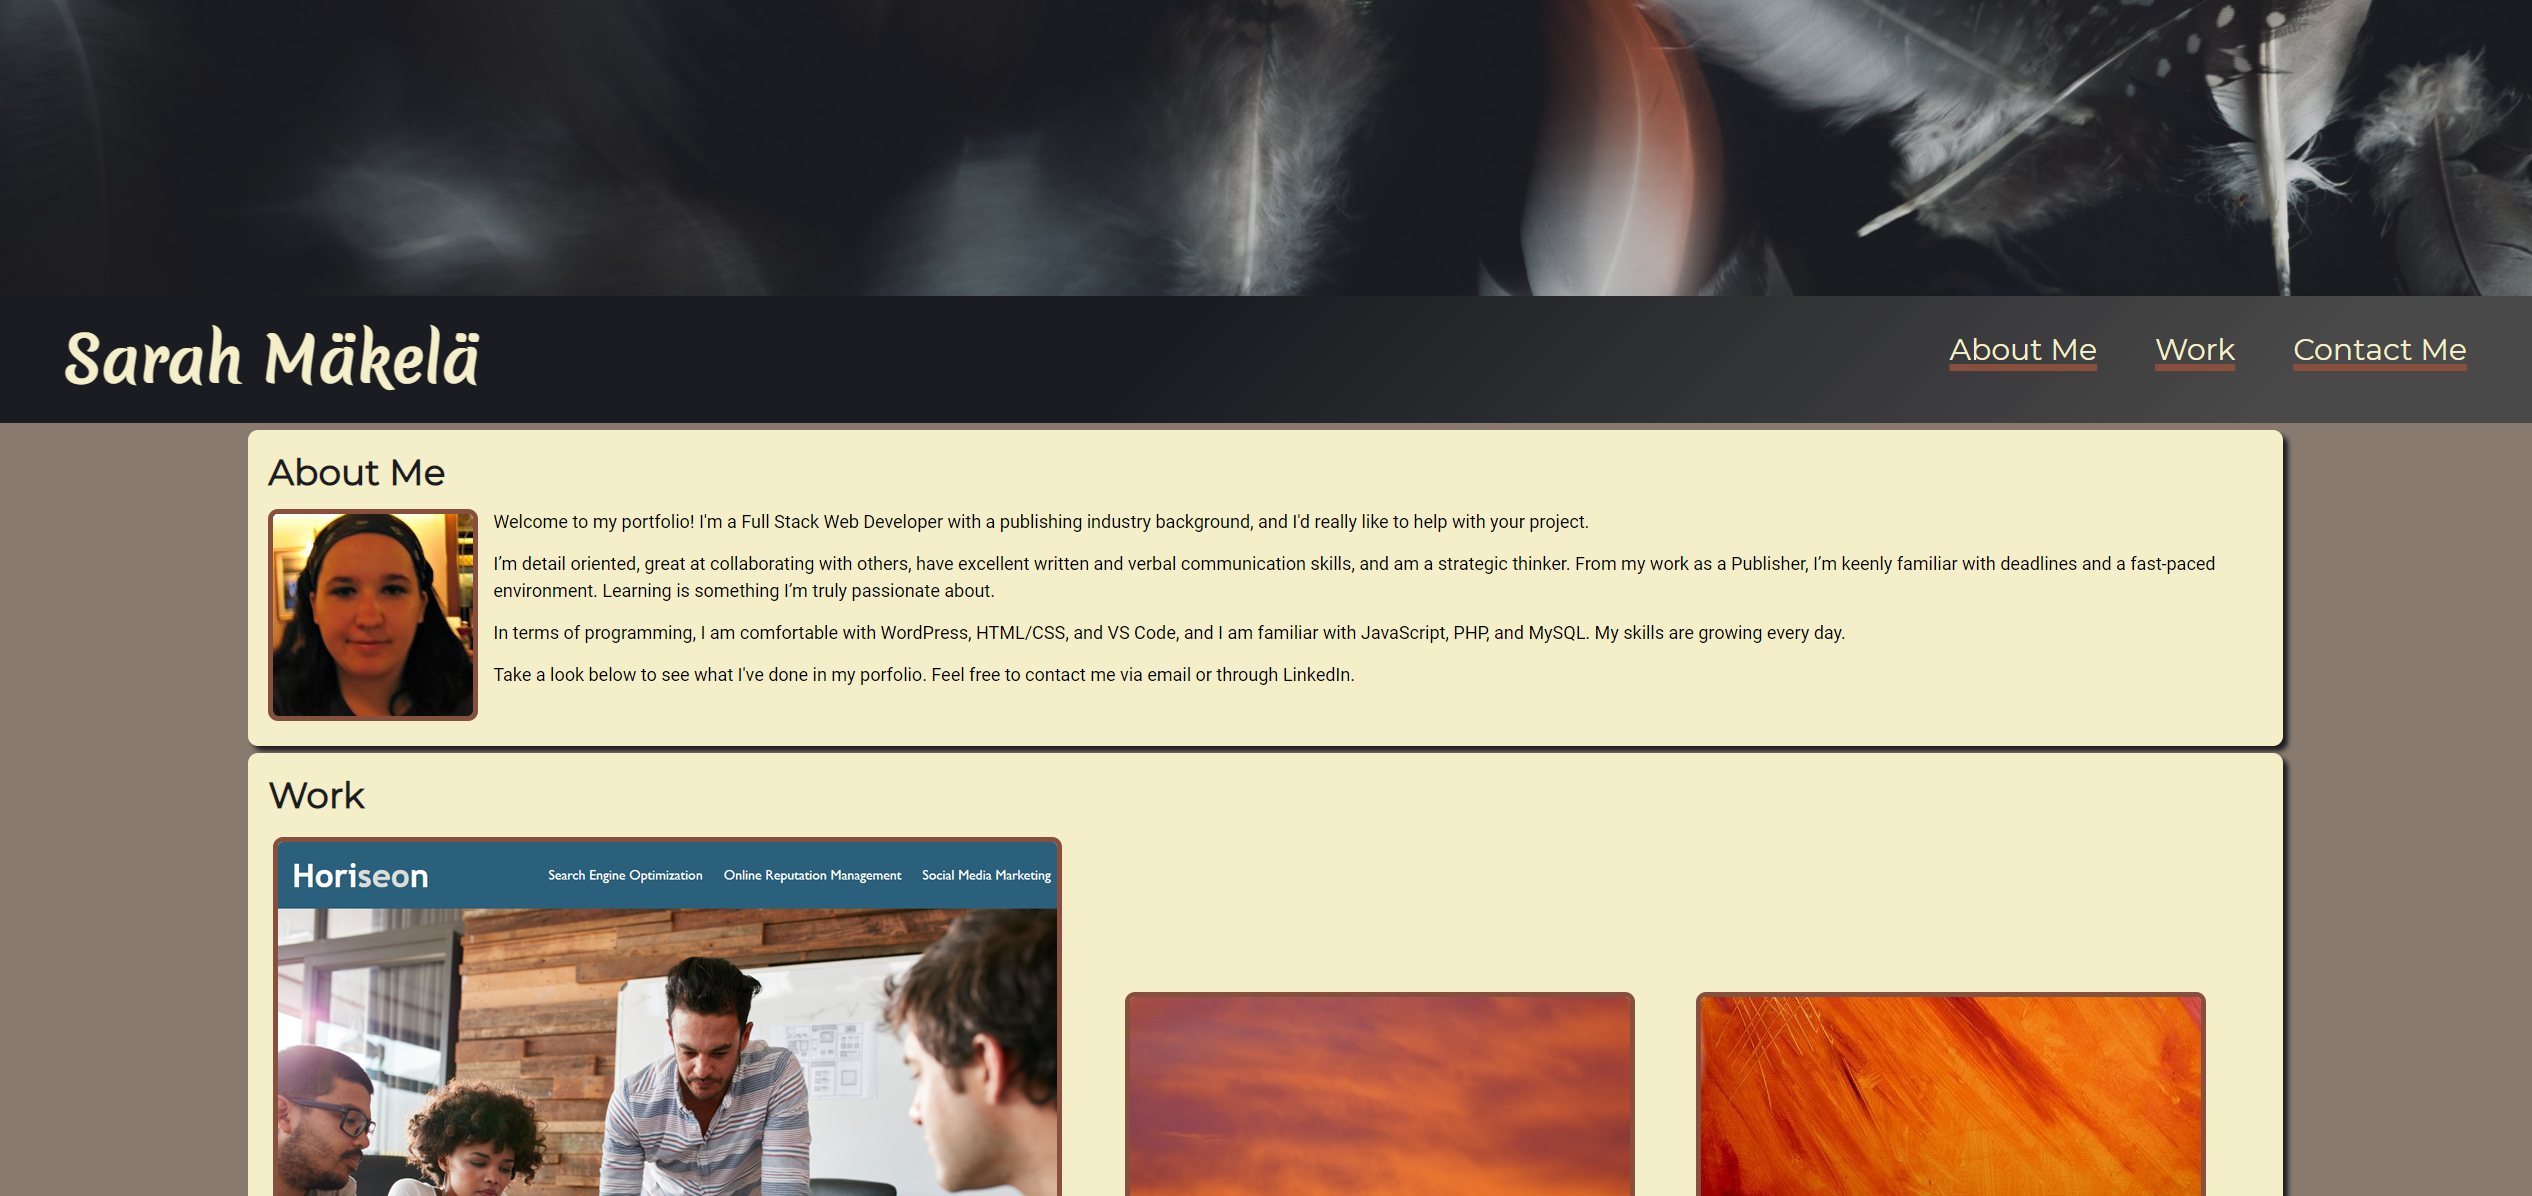
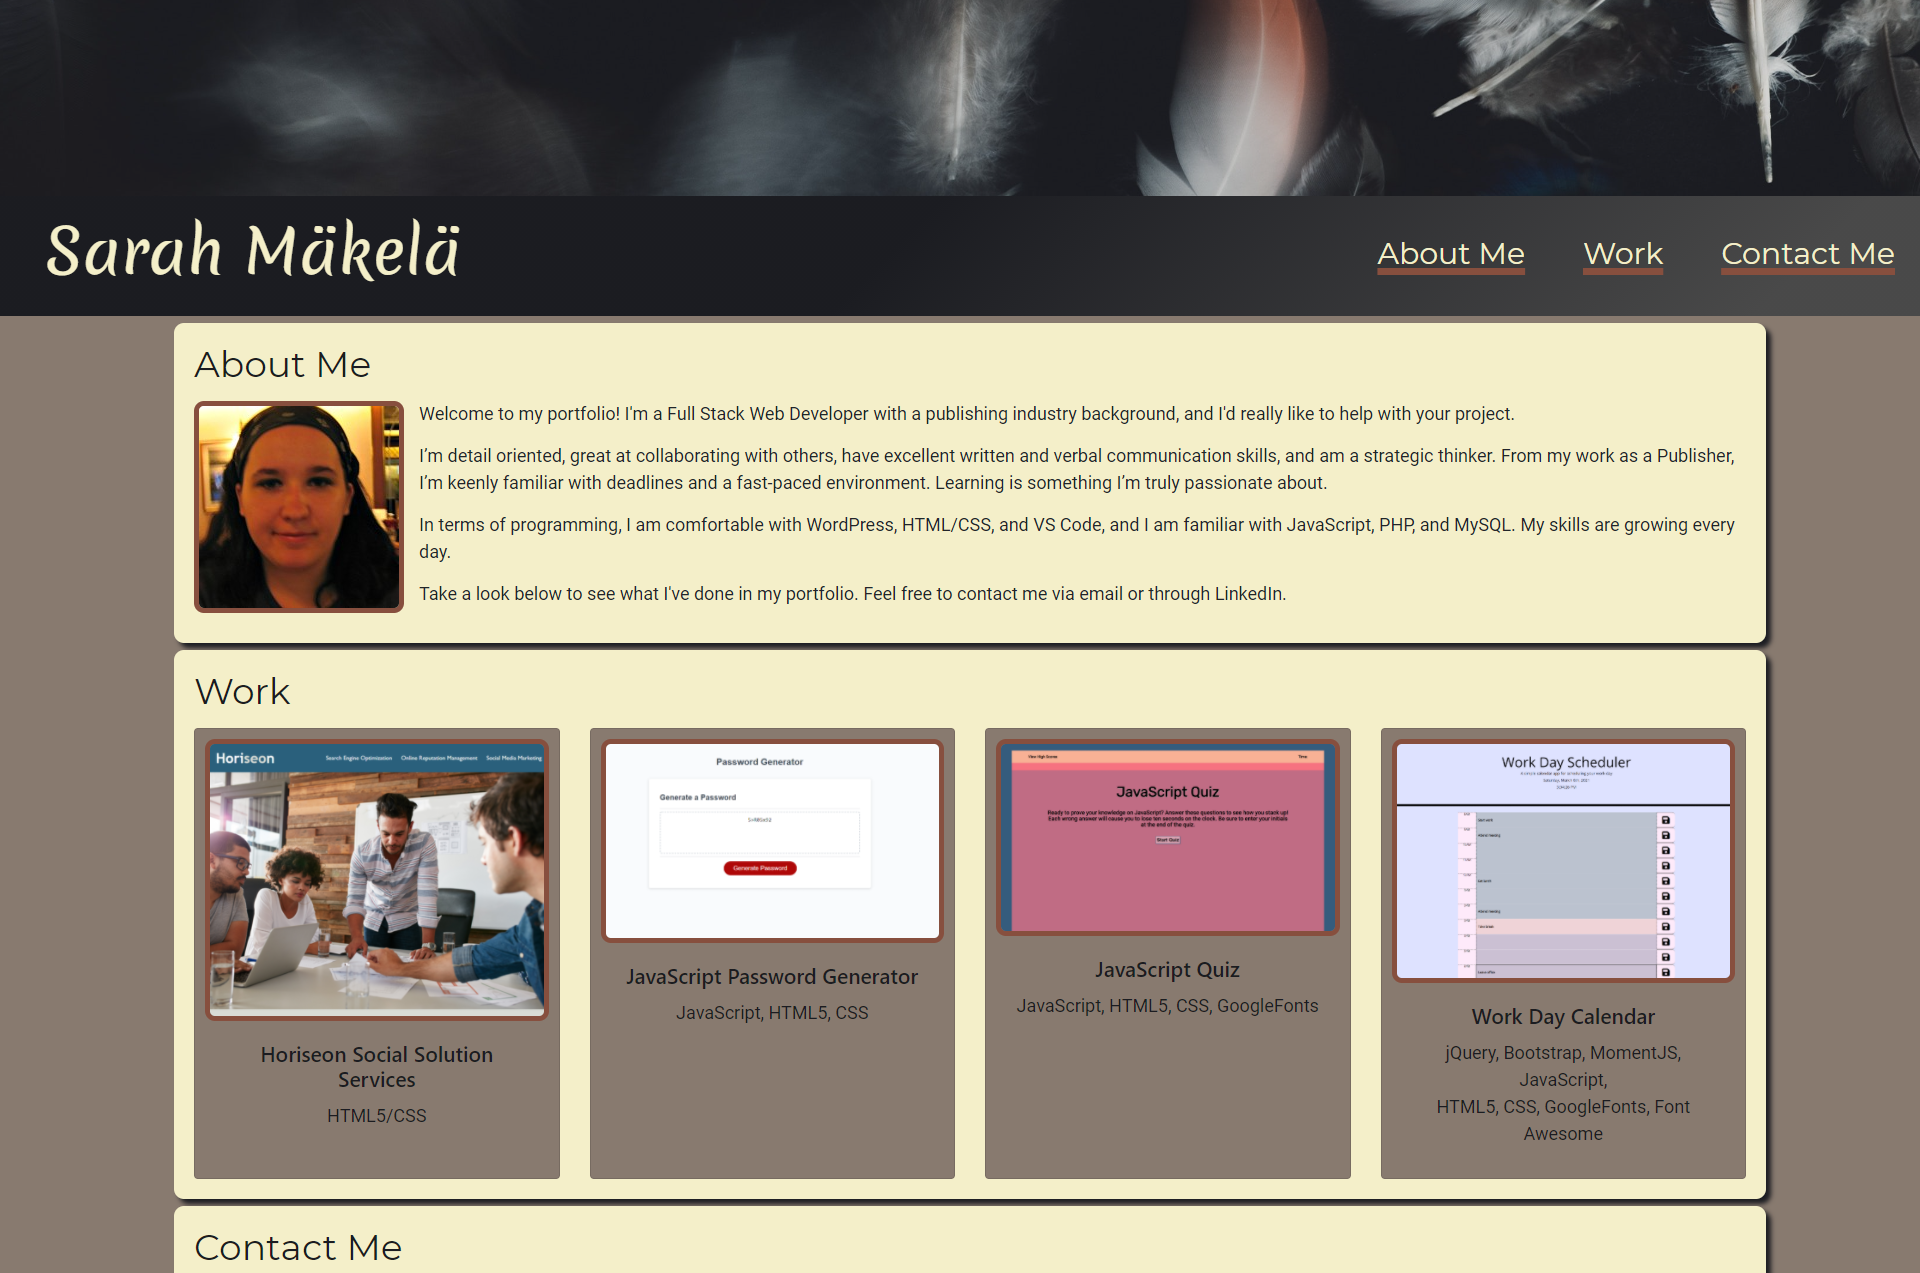
Added Work Day Calendar project and created cards in Bootstrap to hold projects

diff --git a/index.html b/index.html
@@ -3,11 +3,13 @@
 
 <head>
     <meta charset="UTF-8" />
+    <link rel="stylesheet" href="https://stackpath.bootstrapcdn.com/bootstrap/4.1.3/css/bootstrap.min.css"
+        integrity="sha384-MCw98/SFnGE8fJT3GXwEOngsV7Zt27NXFoaoApmYm81iuXoPkFOJwJ8ERdknLPMO" crossorigin="anonymous">
     <link rel="stylesheet" href="./assets/css/style.css">
     <link href="https://fonts.googleapis.com/css2?family=Merienda" rel="stylesheet">
     <link href="https://fonts.googleapis.com/css2?family=Montserrat" rel="stylesheet">
     <link href="https://fonts.googleapis.com/css2?family=Roboto" rel="stylesheet">
-    <title>Sarah Makela's Porfolio</title>
+    <title>Sarah Mäkelä's Portfolio</title>
 </head>
 
 <!-- Header with navigation -->
@@ -36,7 +38,7 @@
                 <!-- About Me -->
                 <h2 id="about-me">About Me</h2>
                 <div class="about-container">
-                    <img class="about-img" src="./assets/images/Sarah-Makela.jpg" alt="Sarah Makela" />
+                    <img class="about-img" src="./assets/images/Sarah-Makela.jpg" alt="Sarah Mäkelä" />
                     <div class="about-text">
                         <p> 
                             Welcome to my portfolio! I'm a Full Stack Web Developer with a publishing industry background, and I'd really like to help with your project.
@@ -48,7 +50,7 @@
                             In terms of programming, I am comfortable with WordPress, HTML/CSS, and VS Code, and I am familiar with JavaScript, PHP, and MySQL. My skills are growing every day.
                         </p>
                         <p>
-                            Take a look below to see what I've done in my porfolio. Feel free to contact me via email or through LinkedIn.
+                            Take a look below to see what I've done in my portfolio. Feel free to contact me via email or through LinkedIn.
                         </p>
                     </div>
                 </div>
@@ -57,42 +59,47 @@
             <!-- My Work portfolio -->
             <section class="main-content-box">
                 <h2 id="work">Work</h2>
-                <div class="portfolio-grid">
+                    <div class="card-deck">
                     <!-- Horiseon project -->
-                    <section>
-                        <div class="container">
-                            <a href="https://smakela13.github.io/horiseon-website/Develop/index.html">
-                                <img src="./assets/images/01-html-css-git-homework-demo.png" alt="Horiseon Social Solution Services">
-                                <div class="text-block">
-                                    <h3>Horiseon Social Solution Services</h3>
-                                    <p>HTML5/CSS</p>
-                                </div>
-                            </a>
-                        </div>
+                    <section class="card">
+                        <a href="https://smakela13.github.io/horiseon-website/Develop/index.html">
+                        <img class="card-img-top" src="./assets/images/01-html-css-git-homework-demo.png" alt="Horiseon Social Solution Services">
+                            <div class="card-body">
+                                <h3 class="card-title">Horiseon Social Solution Services</h3>
+                                <p class="card-text">HTML5/CSS</p>
+                            </div>
+                        </a>
                     </section>
                     <!-- JavaScript Password Generator project -->
-                    <section>
-                        <div class="container">
-                            <a href="https://smakela13.github.io/js-password-generator/Develop/index.html">
-                                <img src="./assets/images/smakela-password-generator.png" alt="JavaScript Password Generator">
-                                <div class="text-block">
-                                    <h3>JavaScript Password Generator</h3>
-                                    <p>JavaScript/HTML5/CSS</p>
-                                </div>
-                            </a>
-                        </div>
+                    <section class="card">
+                        <a href="https://smakela13.github.io/js-password-generator/Develop/index.html">
+                        <img class="card-img-top" src="./assets/images/smakela-password-generator.png" alt="JavaScript Password Generator">
+                            <div class="card-body">
+                                <h3 class="card-title">JavaScript Password Generator</h3>
+                                <p class="card-text">JavaScript, HTML5, CSS</p>
+                            </div>
+                        </a>
                     </section>
-                    <!-- Coming Soon project -->
-                    <section>
-                        <div class="container">
+                    <!-- JavaScript Quiz project -->
+                    <section class="card">
                             <a href="https://smakela13.github.io/javascript-quiz/">
-                                <img src="./assets/images/javascript-quiz.png" alt="JavaScript Quiz">
-                                <div class="text-block">
-                                    <h3>JavaScript Quiz</h3>
-                                    <p>JavaScript/HTML5/CSS</p>
-                                </div>
-                            </a>
-                        </div>
+                            <img class="card-img-top" src="./assets/images/javascript-quiz.png" alt="JavaScript Quiz">
+                            <div class="card-body">
+                                <h3 class="card-title">JavaScript Quiz</h3>
+                                <p class="card-text">JavaScript, HTML5, CSS, GoogleFonts</p>
+                            </div>
+                        </a>
+                    </section>
+                    <!-- JavaScript Quiz project -->
+                    <section class="card">
+                        <a href="https://smakela13.github.io/work-day-calendar/">
+                            <img class="card-img-top" src="./assets/images/work-day-scheduler.png" alt="Work Day Calendar">
+                            <div class="card-body">
+                                <h3 class="card-title">Work Day Calendar</h3>
+                                <p class="card-text">jQuery, Bootstrap, MomentJS, JavaScript,<br />
+                                    HTML5, CSS, GoogleFonts, Font Awesome</p>
+                            </div>
+                        </a>
                     </section>
                 </div>
             </section>

diff --git a/assets/css/style.css b/assets/css/style.css
@@ -119,28 +119,21 @@ header nav ul li a {
 }
 
 /* Work */
-.portfolio-grid {
-    display: grid;
-    grid-template-columns: 1.5fr 1fr 1fr;
-    grid-gap: 10px;
-    padding: 5px;
-    align-items: center;
-}
-
-.container {
-    position: relative;
-    display: inline-block;
-}
-
-.text-block {
-    position: absolute;
-    bottom: 20px;
-    right: 20px;
-    background-color: rgba(135, 79, 62, 0.9);
+.card-title {
+    text-align: center;
     color: var(--raisinBlack);
-    font-weight: bold;
+    font-size: 21px;
+}
+
+.card-text {
+    text-align: center;
+    color: var(--raisinBlack);
+    font-size: 18px;
+}
+
+.card {
+    background-color: var(--middleGrey);
     padding: 10px;
-    border-radius: 15px;
 }
 
 /* Contact */
